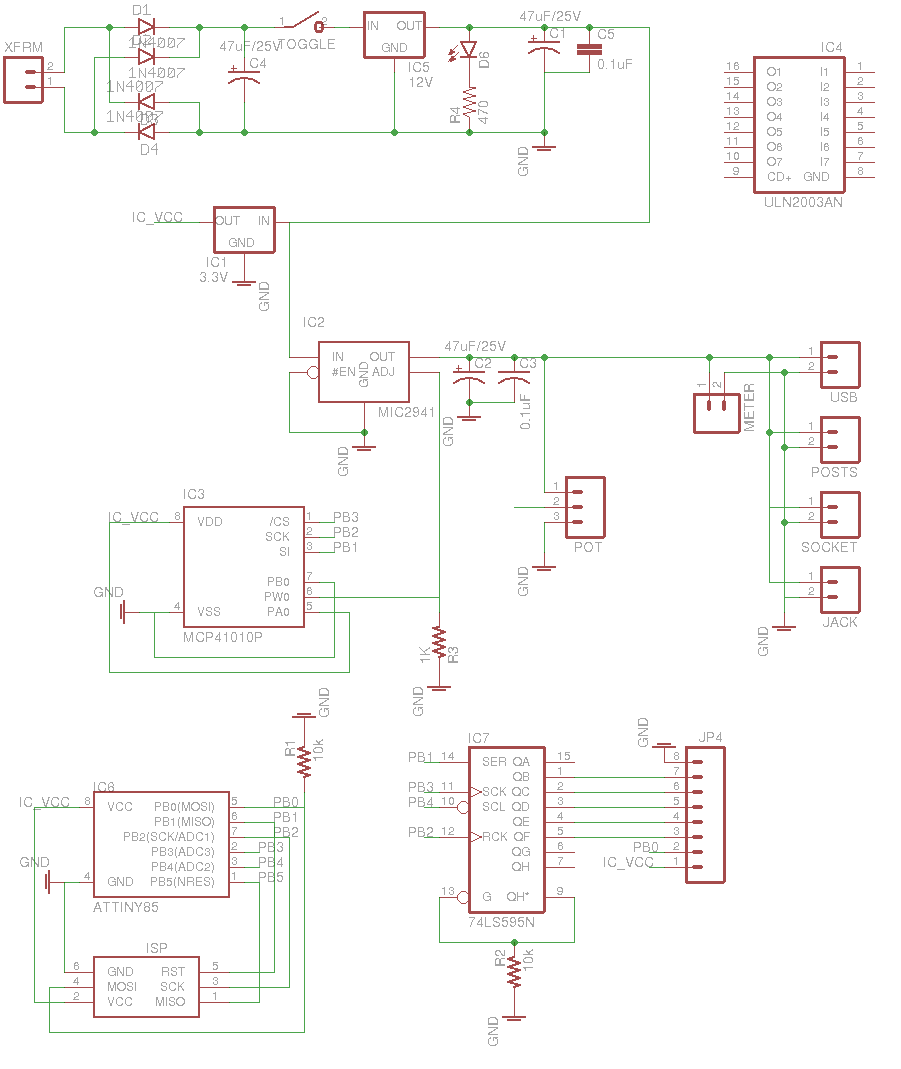
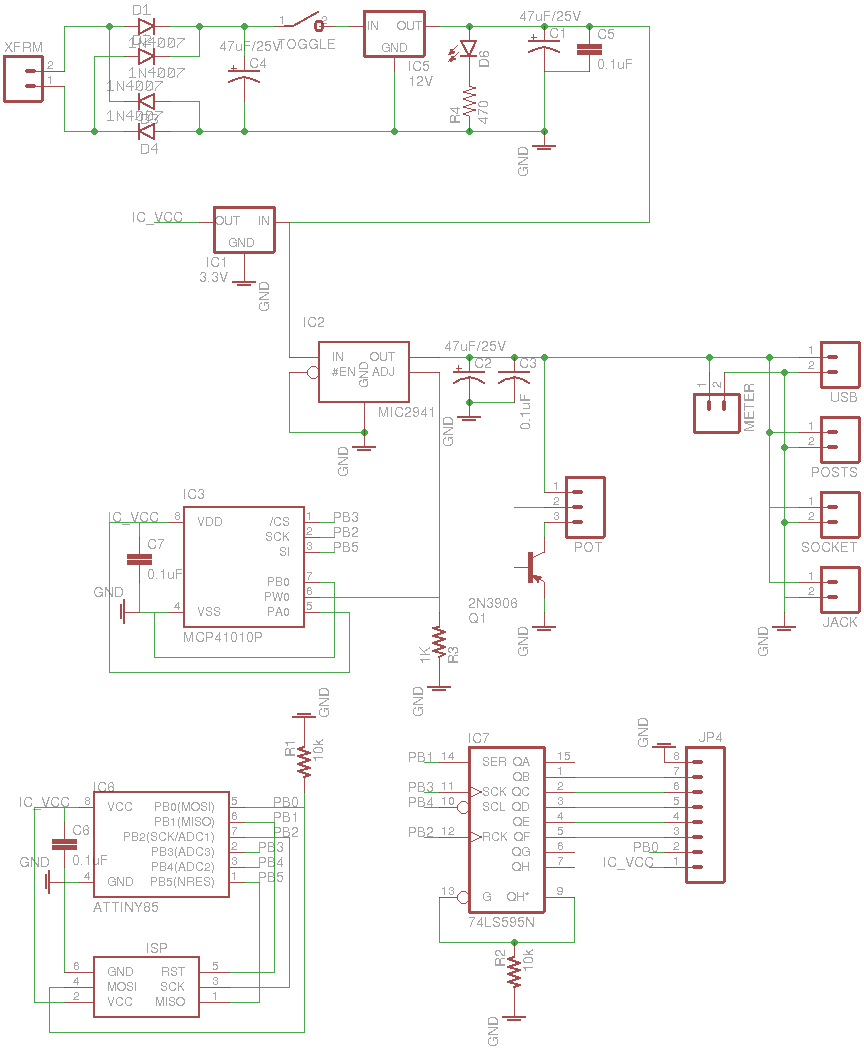
Finally got to working on the main board layout

diff --git a/README.md b/README.md
@@ -9,6 +9,7 @@ Trying to learn more electronics by building a circuit that lets me have differe
 
 ## Boards
 ## Selection Logic
+![Main board](https://raw.githubusercontent.com/HokieGeek/power-supply-voltage-selector/master/schematics/voltage-selector-and-output.brd.png)
 TODO
 ## LEDs, buttons, et. al.
 ![Board of LEDs and Buttons](https://raw.githubusercontent.com/HokieGeek/power-supply-voltage-selector/master/schematics/leds-and-buttons.brd.png)
